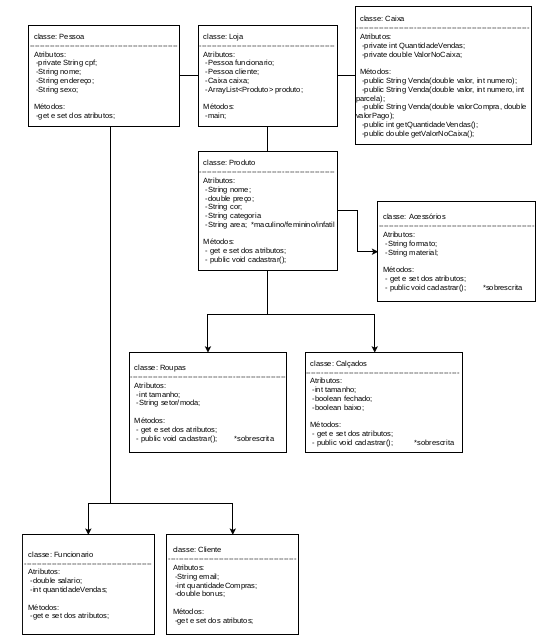
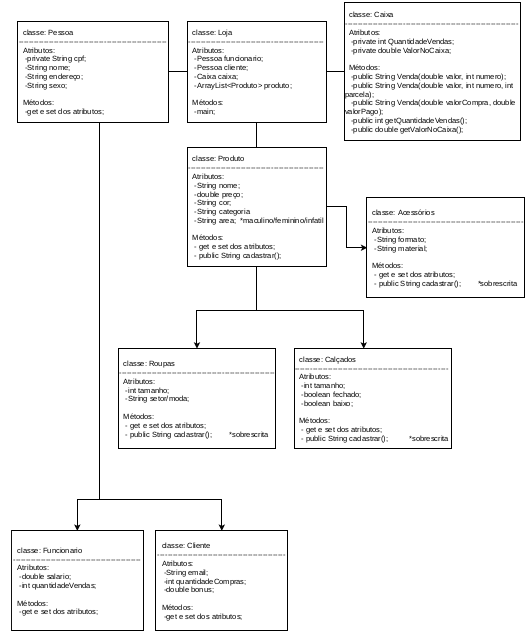
atualizacao projeto dia 2

diff --git a/MiniProjeto/LojaDeRoupa/Acessorios.java b/MiniProjeto/LojaDeRoupa/Acessorios.java
@@ -3,16 +3,17 @@ package LojaDeRoupa;
 public class Acessorios extends Produto {
 	 String formato;
 	 String material;
-	 
-	 public Acessorios() {
-		 
-	 }
-	 
-	 public void cadastrar(String formato, String material, String nome, double preco, String cor, String categoria, String area) {
-			super.cadastrar(nome, preco, cor, categoria, area);
-			this.formato = formato;
-			this.material = material;		
-		} 
+
+	public Acessorios(String nome, double preco, String cor, String categoria, String area, String formato, String material) {
+		super(nome, preco, cor, categoria, area);
+		this.formato = formato;
+		this.material = material;
+		
+	}
+
+	public String cadastrar() {	
+		return (this.nome + " de formato " + this.formato + " e material " + this.material + " cadastrado(a)");
+	}
 	 
 	public String getFormato() {
 		return formato;

diff --git a/MiniProjeto/LojaDeRoupa/Produto.java b/MiniProjeto/LojaDeRoupa/Produto.java
@@ -6,16 +6,16 @@ public class Produto {
 	String cor;
 	String categoria;
 	
-	public Produto() {
-		
-	}
-	
-	public void cadastrar(String nome, double preco, String cor, String categoria, String area) {
+	public Produto(String nome, double preco, String cor, String categoria, String area) {
 		this.nome = nome;
 		this.preco = preco;
 		this.cor = cor;
 		this.categoria = categoria;
 		this.area = area;
+	}
+
+	public String cadastrar() {
+		return ("Produto cadastrado");
 	}
 	
 	public String getNome() {
@@ -24,10 +24,10 @@ public class Produto {
 	public void setNome(String nome) {
 		this.nome = nome;
 	}
-	public double getPreco() {
-		return preço;
+	public double getpreco() {
+		return preco;
 	}
-	public void setPreco(double preco) {
+	public void setpreco(double preco) {
 		this.preco = preco;
 	}
 	public String getCor() {

diff --git a/MiniProjeto/LojaDeRoupa/Calcados.java b/MiniProjeto/LojaDeRoupa/Calcados.java
@@ -1,19 +1,19 @@
 package LojaDeRoupa;
 
-public class Calçados extends Produto{
+public class Calcados extends Produto{
 	int tamanho;
 	boolean fechado;
 	boolean baixo;
 	
-	public Calcados() {
-		
-	}
-	
-	public void cadastrar(int tamanho, boolean fechado, boolean baixo, String nome, double preco, String cor, String categoria, String area) {
-		super.cadastrar(nome, preco, cor, categoria, area);
+	public Calcados(String nome, double preco, String cor, String categoria, String area, int tamanho, boolean fechado, boolean baixo) {
+		super(nome, preco, cor, categoria, area);
 		this.tamanho = tamanho;
 		this.fechado = fechado;
-		this.baixo = baixo;		
+		this.baixo = baixo;
+	}
+	
+	public String cadastrar() {
+		return (this.nome + " de tamanho " + this.tamanho + " cadastrado(a)");
 	}
 	
 	public int getTamanho() {

diff --git a/MiniProjeto/LojaDeRoupa/Roupas.java b/MiniProjeto/LojaDeRoupa/Roupas.java
@@ -2,15 +2,14 @@ package LojaDeRoupa;
 public class Roupas extends Produto {
 	int tamanho;
 	String setorModa;
-	
-	public Roupas() {
-		
-	}
-	
-	public void cadastrar(int tamanho, String setorModa,String nome, double preco, String cor, String categoria, String area) {
-		super.cadastrar(nome, preco, cor, categoria, area);
+
+	public Roupas(String nome, double preco, String cor, String categoria, String area, int tamanho, String setorModa) {
+		super(nome, preco, cor, categoria, area);
 		this.tamanho = tamanho;
-		this.setorModa = setorModa;	
+		this.setorModa = setorModa;
+	}
+	public String cadastrar() {	 
+		return (this.nome + " de tamanho " + this.tamanho + " do setor " + this.setorModa + " cadastrado(a");
 	}
 	
 	public int getTamanho() {

diff --git a/MiniProjeto/LojaDeRoupa/Loja.java b/MiniProjeto/LojaDeRoupa/Loja.java
@@ -1,5 +1,7 @@
 package LojaDeRoupa;
 
+import java.util.ArrayList;
+
 public class Loja {
 	Pessoa funcionario;
 	Pessoa cliente;
@@ -15,6 +17,14 @@ public class Loja {
 		
 		Funcionario func = new Funcionario();
 		func.setNome("henrrique");
+		Caixa caixa = new Caixa();
+		Loja marisa = new Loja(func,caixa);
+		
+		func.setSalario(1000);
+		
+		//Roupas blusa = new Roupas();
+		
+		
 		
 		
 	}

diff --git a/MiniProjeto/LojaDeRoupa/Pessoa.java b/MiniProjeto/LojaDeRoupa/Pessoa.java
@@ -18,10 +18,10 @@ public class Pessoa {
 	public void setNome(String nome) {
 		this.nome = nome;
 	}
-	public String getEndereco() {
+	public String getendereco() {
 		return endereco;
 	}
-	public void setEndereco(String endereco) {
+	public void setendereco(String endereco) {
 		this.endereco = endereco;
 	}
 	public String getSexo() {
